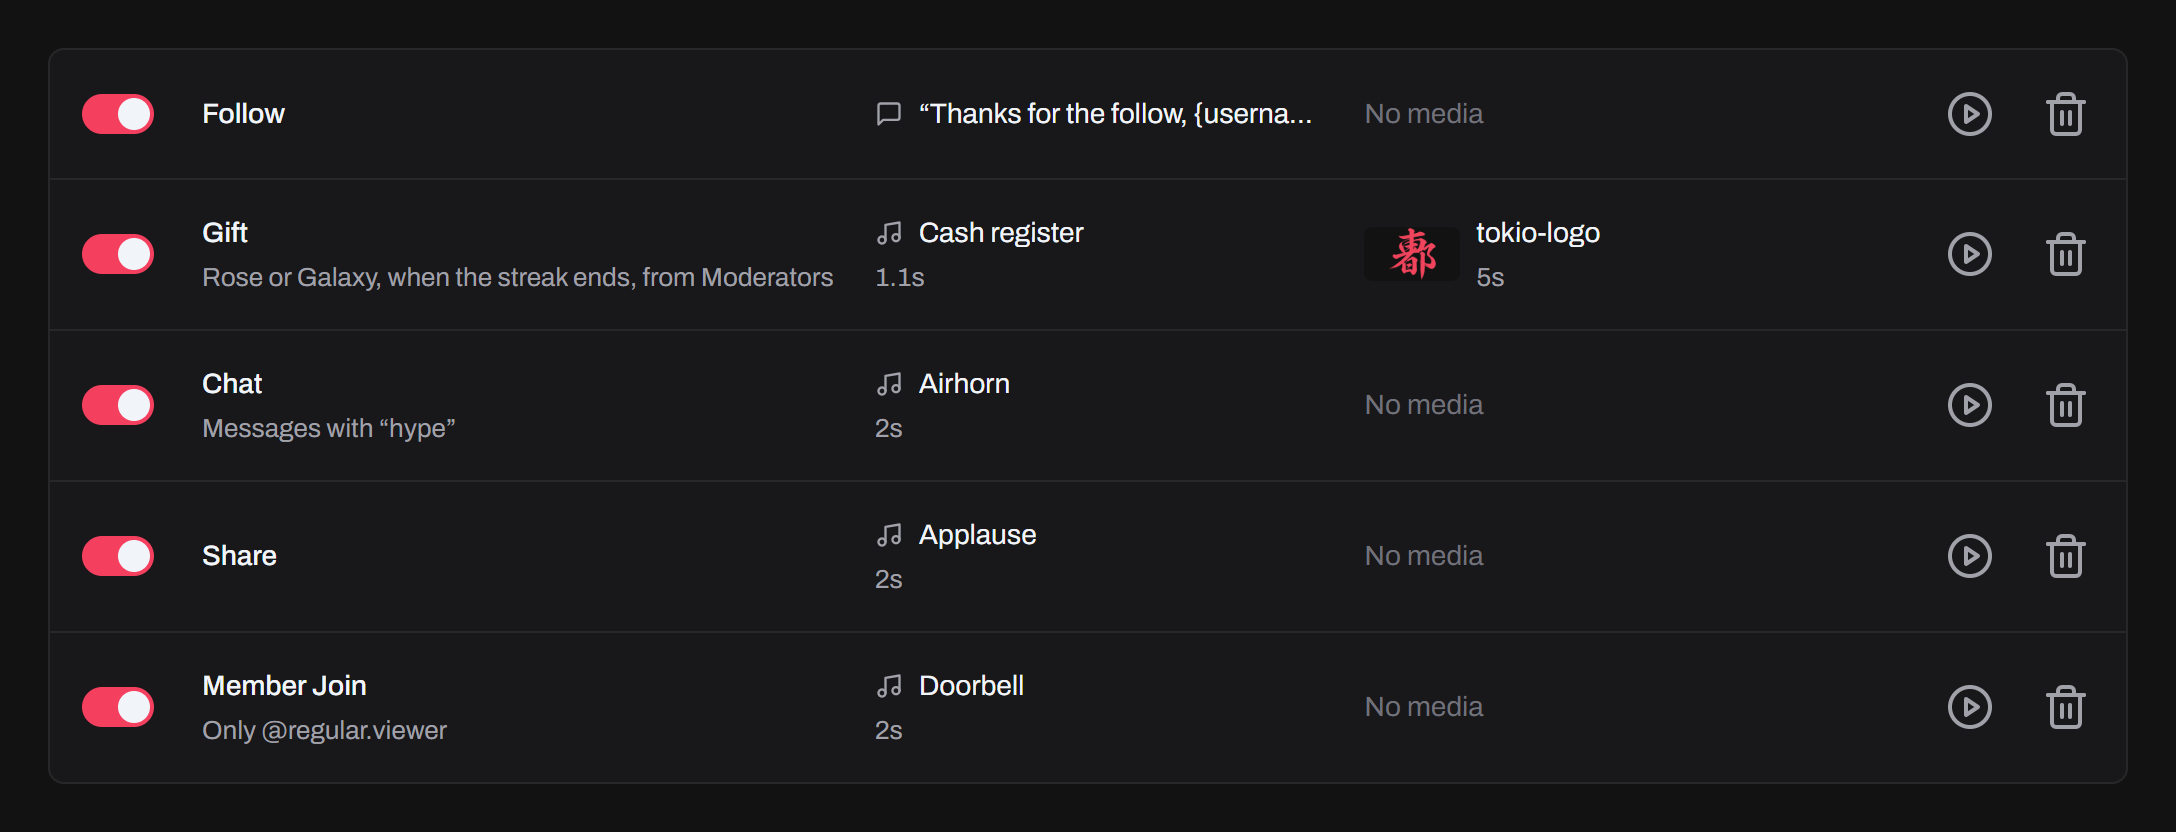
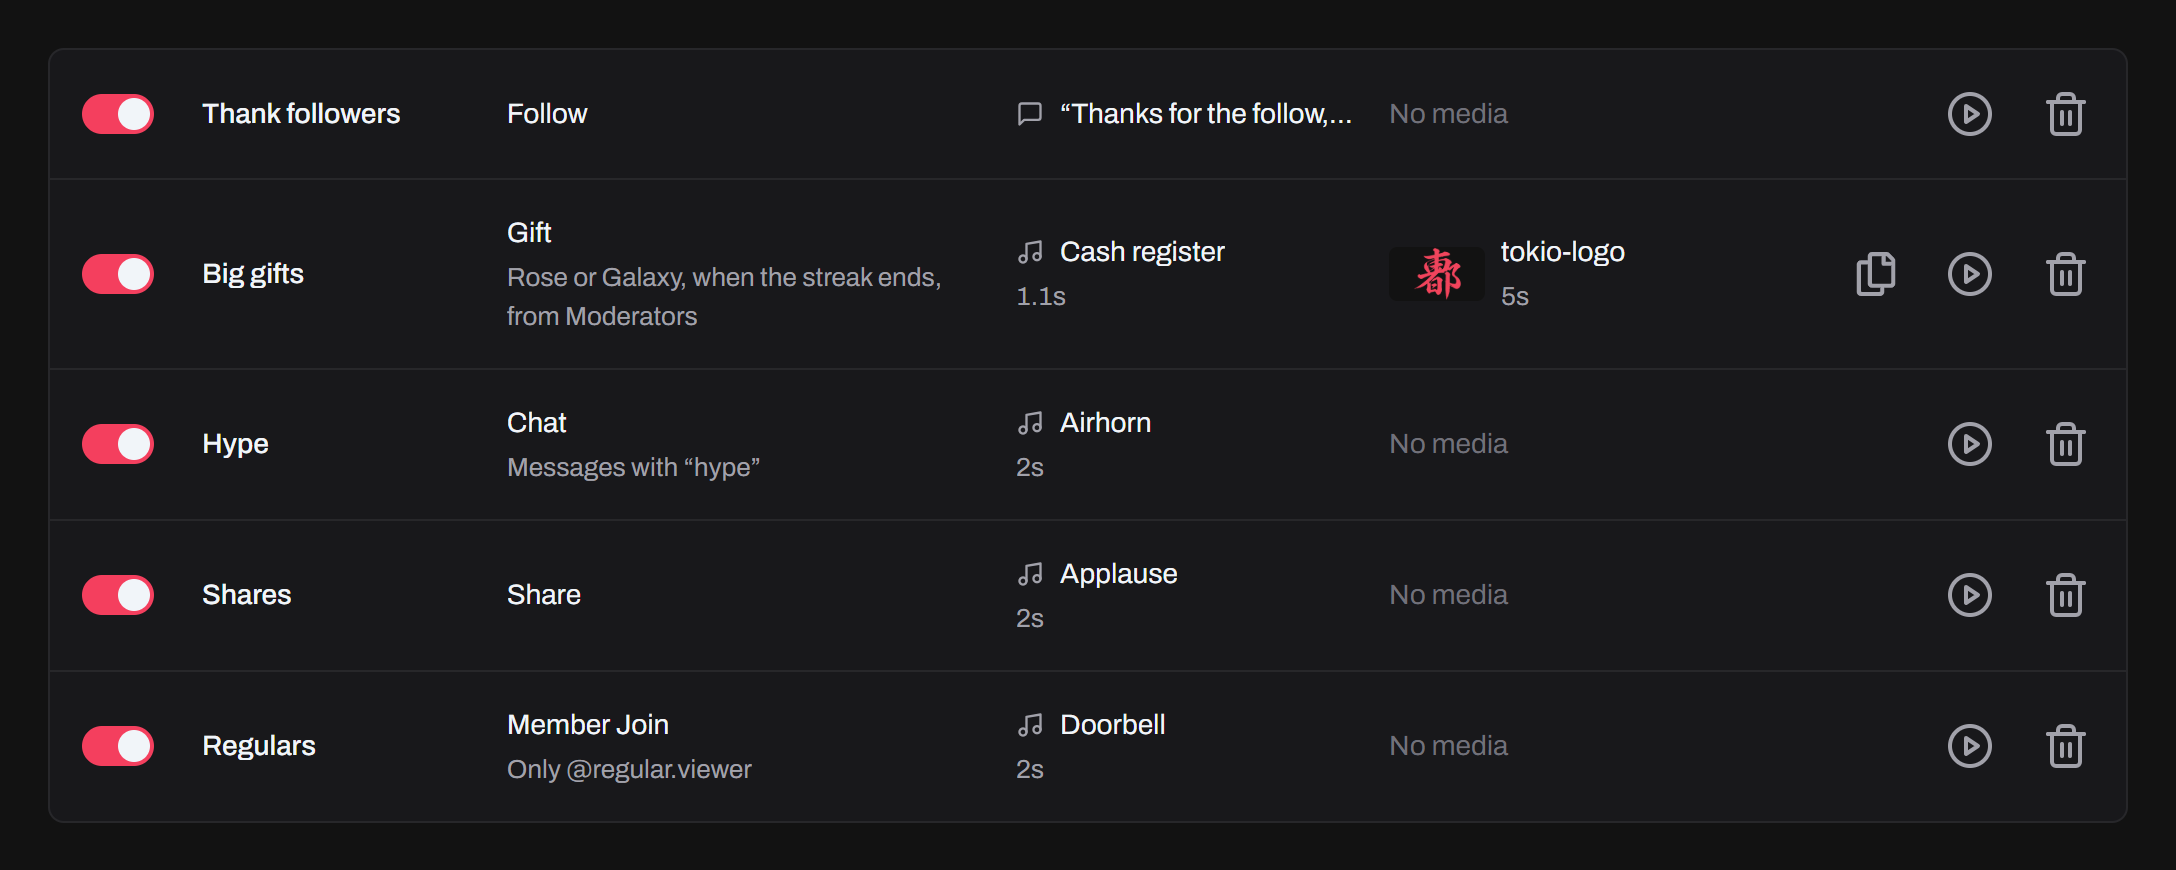
docs: describe alert names, search and copying the overlay URL
Alerts have names, typed above the editor's tabs, and the page searches
them. A row with media copies its overlay URL, and a row with many gifts
names three and counts the rest. The Alerts screenshots show the named
alerts.

diff --git a/src/content/docs/docs/features/alerts.md b/src/content/docs/docs/features/alerts.md
@@ -5,11 +5,13 @@ description: Play a sound or a message, or show an image or a video, for follows
 
 Play a sound or a spoken message, show an image or a video, or both, when something happens in your LIVE. Set them up on the **Alerts** page, and turn **Alerts** on under **Active Features** on **Home**.
 
-![Five alerts on the Alerts page: a follow alert that speaks a message, a gift alert for two gifts with a cut sound and an image, a chat alert for a keyword, a share alert and a join alert for one viewer](../../../../assets/screenshots/alerts.png)
+![Five named alerts on the Alerts page: Thank followers speaks a message, Big gifts plays a cut sound and shows an image for two gifts, Hype answers a chat keyword, Shares plays for shares and Regulars for one viewer joining](../../../../assets/screenshots/alerts.png)
 
-Each row sums up an alert: what sets it off, what it plays and for how long, and what it shows. Its switch turns it on and off, and its play button previews it. Alerts belong to the profile; your sounds and media are shared by all profiles.
+Each row sums up an alert: its name, what sets it off, what it plays and for how long, and what it shows. Its switch turns it on and off, and its play button previews it. An alert with an image or a video also has a button that copies its overlay URL. Alerts belong to the profile; your sounds and media are shared by all profiles.
 
-Click **Add alert**, then click the alert to open its editor. It has three tabs: **Trigger**, **Sound** and **Media**. Changes save as you make them, and **Done** closes it.
+Click **Add alert**, then click the alert to open its editor. Type its **Name** at the top: a new alert is named by its place in the list, like alert-3. Under the name are three tabs: **Trigger**, **Sound** and **Media**. Changes save as you make them, and **Done** closes it.
+
+To find an alert, click the search button next to **Add alert** and type part of its name.
 
 ## Triggers
 
@@ -66,7 +68,7 @@ On the **Media** tab, click **Choose media...** to show a png, jpg, gif, webp, m
 - Browsers play a page's video muted until you click the page. When you test the overlay in a browser tab, click it once, and the next videos play with sound. OBS's browser source plays the sound without a click.
 - Manage your media in **Settings → Media Library**.
 
-Each alert shows its media on its own overlay, so you can place it anywhere. Copy the **Overlay URL** and add it to your streaming app (see [Adding an overlay](/docs/guides/adding-an-overlay/)), then press the alert's play button to check it:
+Each alert shows its media on its own overlay, so you can place it anywhere. Copy the **Overlay URL**, here or with the copy button on the alert's row, and add it to your streaming app (see [Adding an overlay](/docs/guides/adding-an-overlay/)), then press the alert's play button to check it:
 
 ```
 http://tokio-app.local:37891/alerts/<alert-id>/
@@ -74,7 +76,7 @@ http://tokio-app.local:37891/alerts/<alert-id>/
 
 ## Gift alerts
 
-On the **Trigger** tab, click **Any gift** to pick gifts. Search them, filter them by price and sort them. **Select all shown** checks every gift the filters leave, like all gifts of 1,000 coins or more. With none checked, the alert plays for any gift.
+On the **Trigger** tab, click **Any gift** to pick gifts. Search them, filter them by price and sort them. **Select all shown** checks every gift the filters leave, like all gifts of 1,000 coins or more. With none checked, the alert plays for any gift. The alert's row names up to three of them and counts the rest, like "Rose, Lion or 230 more".
 
 ![The gift list filtered to gifts of at least 1,000 coins, with Galaxy checked](../../../../assets/screenshots/alerts-gifts.png)
 
